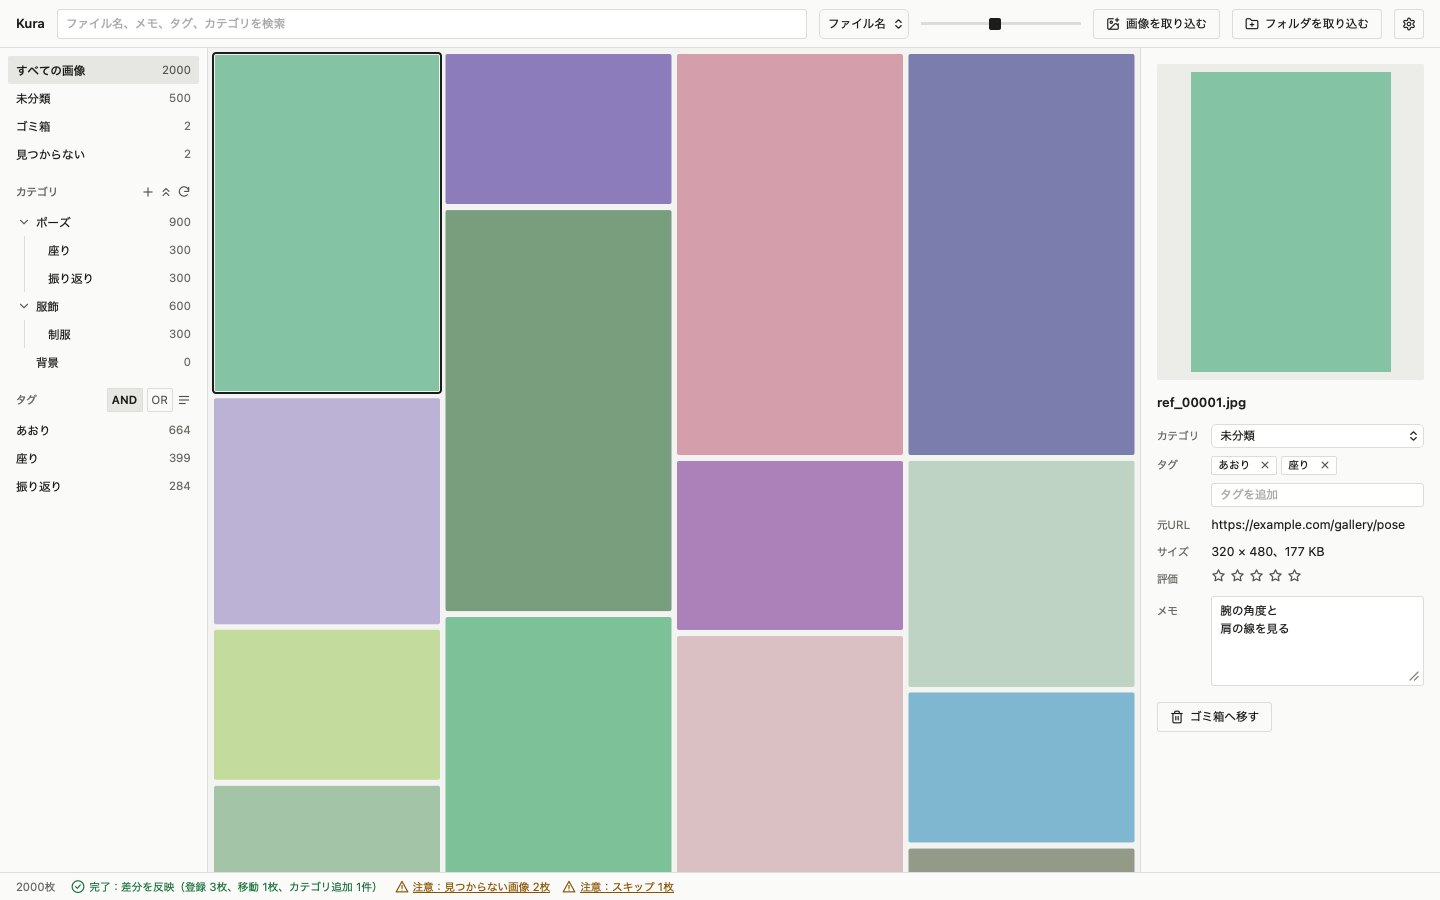
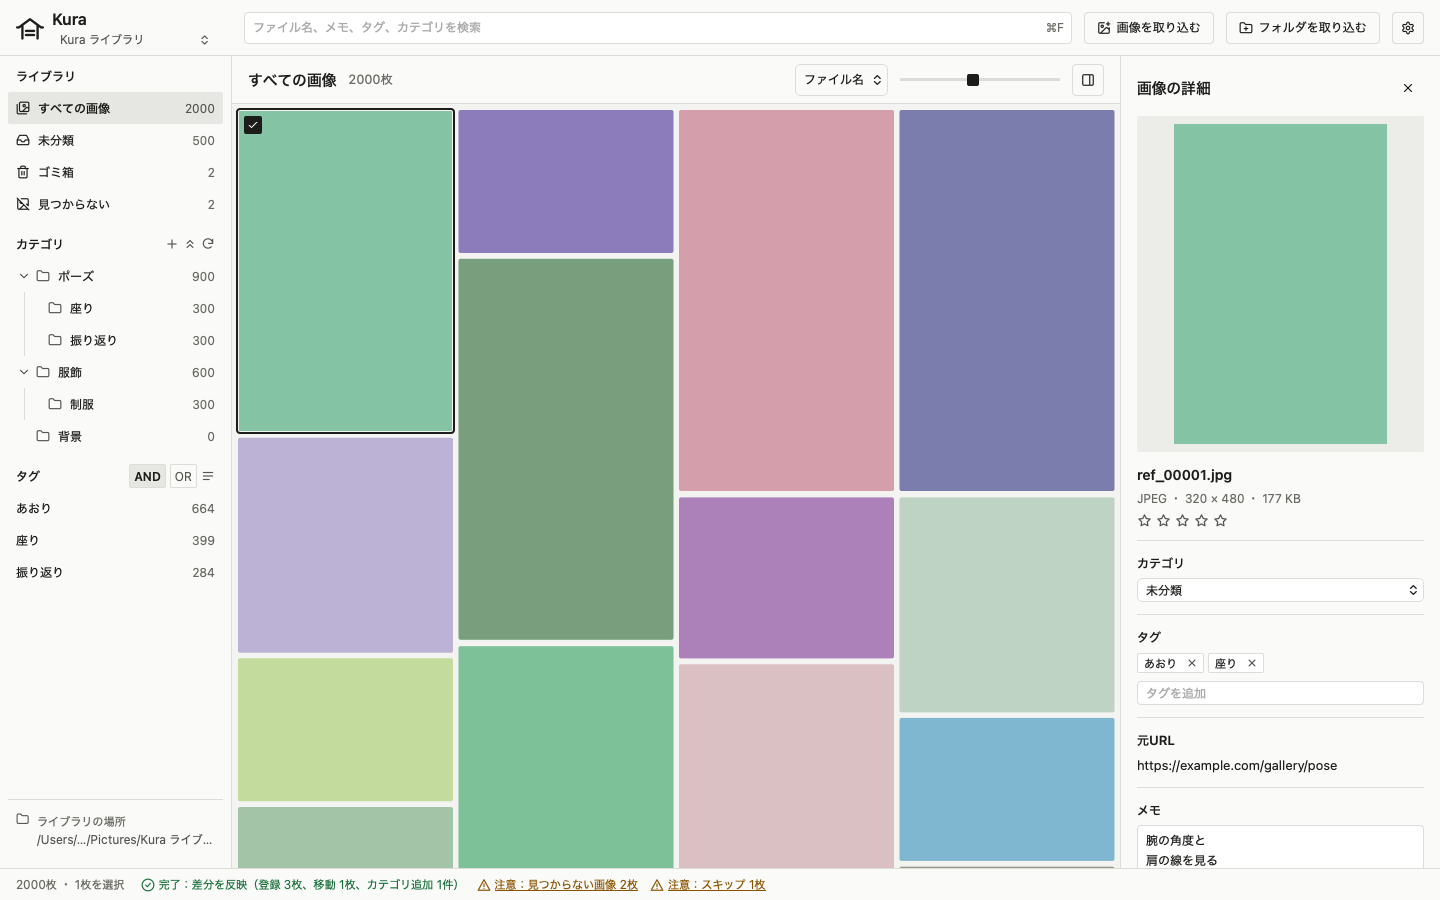
docs: ユーザーガイドとスクリーンショットを新しい画面に合わせる

Changed region(s): [[0.0, 0.0, 1.0, 0.9956], [0.0312, 0.9022, 0.0938, 0.9333]]

diff --git a/docs/user-guide.md b/docs/user-guide.md
@@ -26,11 +26,12 @@ Kura は、イラスト制作用の参考画像をパソコンの中だけで集
 
 ![ギャラリー画面](images/gallery.png)
 
-- 上のヘッダー：検索欄、並べ替え、サムネイルの大きさのスライダー、「画像を取り込む」「フォルダを取り込む」、設定（歯車のアイコン）
-- 左のサイドバー：すべての画像、未分類、ゴミ箱、カテゴリ、タグ
+- 上のヘッダー：開いているライブラリの名前、検索欄、「画像を取り込む」「フォルダを取り込む」、設定（歯車のアイコン）
+- 左のサイドバー：すべての画像、未分類、ゴミ箱、カテゴリ、タグ。下端にライブラリの場所
+- 真ん中の上の帯：見ているもの（すべての画像、カテゴリ名など）と枚数、並べ替え、サムネイルの大きさのスライダー、詳細パネルを開閉するボタン
 - 真ん中：画像の一覧
 - 右の詳細パネル：選んだ画像の情報
-- 下のステータスバー：画像の枚数と、操作の結果
+- 下のステータスバー：画像の枚数、選んでいる枚数、操作の結果
 
 ステータスバーの結果には、種類を示す言葉が先頭に付きます。
 
@@ -72,6 +73,8 @@ Kura は、イラスト制作用の参考画像をパソコンの中だけで集
 Kura を起動すると、最後に使ったライブラリを開きます。一度に開けるライブラリは1つです。
 
 ### 別のライブラリに切り替える
+
+ヘッダーのライブラリの名前を押すと、最近使ったライブラリが出ます。選ぶとそのライブラリに切り替わります。今開いているライブラリには印が付いています。一覧にないライブラリを開くときや、新しく作るときは、「ほかのライブラリを開く…」を選びます。
 
 メニューバーの「ファイル」→「ライブラリを切り替える…」（⇧⌘O）を選ぶと、ライブラリ選択画面に戻ります。そこで新しいライブラリを作るか、別のライブラリを開きます。
 
@@ -135,7 +138,7 @@ Kura を起動すると、最後に使ったライブラリを開きます。一
 
 ### 並べ替え
 
-ヘッダーの並べ替えで選びます。
+一覧の上の帯の並べ替えで選びます。
 
 | 項目 | 並び |
 | --- | --- |
@@ -148,7 +151,7 @@ Kura を起動すると、最後に使ったライブラリを開きます。一
 
 ### サムネイルの大きさ
 
-ヘッダーのスライダーで変えます。右へ動かすと大きくなります。最後の大きさは、次に起動したときも残ります。
+一覧の上の帯のスライダーで変えます。右へ動かすと大きくなります。最後の大きさは、次に起動したときも残ります。
 
 ## 画像を選ぶ・詳細を見る・拡大する
 
@@ -163,9 +166,15 @@ Kura を起動すると、最後に使ったライブラリを開きます。一
 | ⌘A | 今の一覧の画像をすべて選ぶ |
 | 矢印キー | 選択を動かす。左右は並びの前後、上下は同じ列の上下 |
 
+選んだ画像には、黒い枠と、左上のチェックの印が付きます。
+
 ### 詳細パネル
 
-1枚を選ぶと、右の詳細パネルにプレビュー、ファイル名、カテゴリ、タグ、元URL、サイズ（幅 × 高さ、ファイルの大きさ）、評価、メモが出ます。元URLは、手元のファイルから取り込んだ画像では「なし」です。
+1枚を選ぶと、右の詳細パネルにプレビュー、ファイル名、形式とサイズ（幅 × 高さ、ファイルの大きさ）、評価、カテゴリ、タグ、元URL、メモ、取り込み日が出ます。元URLは、手元のファイルから取り込んだ画像では「なし」です。
+
+「Finderで表示」を押すと、Finder でその画像のファイルを選んだ状態で開きます。サイドバーの下端のライブラリの場所を押すと、ライブラリのフォルダを Finder で開きます。
+
+詳細パネルは、右上の × か ⌘I で閉じます。一覧の上の帯の右端のボタンか ⌘I で、また開きます。閉じている間に画像を選び直しても、パネルは開きません。
 
 2枚以上を選ぶと、「N枚を選んでいます」と、カテゴリとタグの欄だけが出ます。カテゴリとタグは、選んだ画像にまとめて設定できます。
 
@@ -408,6 +417,7 @@ Kura には戻す操作がありません。次の手順で手で戻します。
 | ⌘A | 今の一覧の画像をすべて選ぶ。サイドバーのタグを押した後は、タグをすべて選ぶ |
 | ⌘Delete | 選んだ画像をゴミ箱へ移す |
 | ⌘, | 設定を開く |
+| ⌘I | 詳細パネルを閉じる・開く |
 | ⇧⌘O | ライブラリを切り替える（ライブラリ選択画面に戻る） |
 | Escape | 拡大表示を閉じる。拡大表示でなければ選択を外す。サイドバーのタグを押した後は、タグの選択を外す |
 
